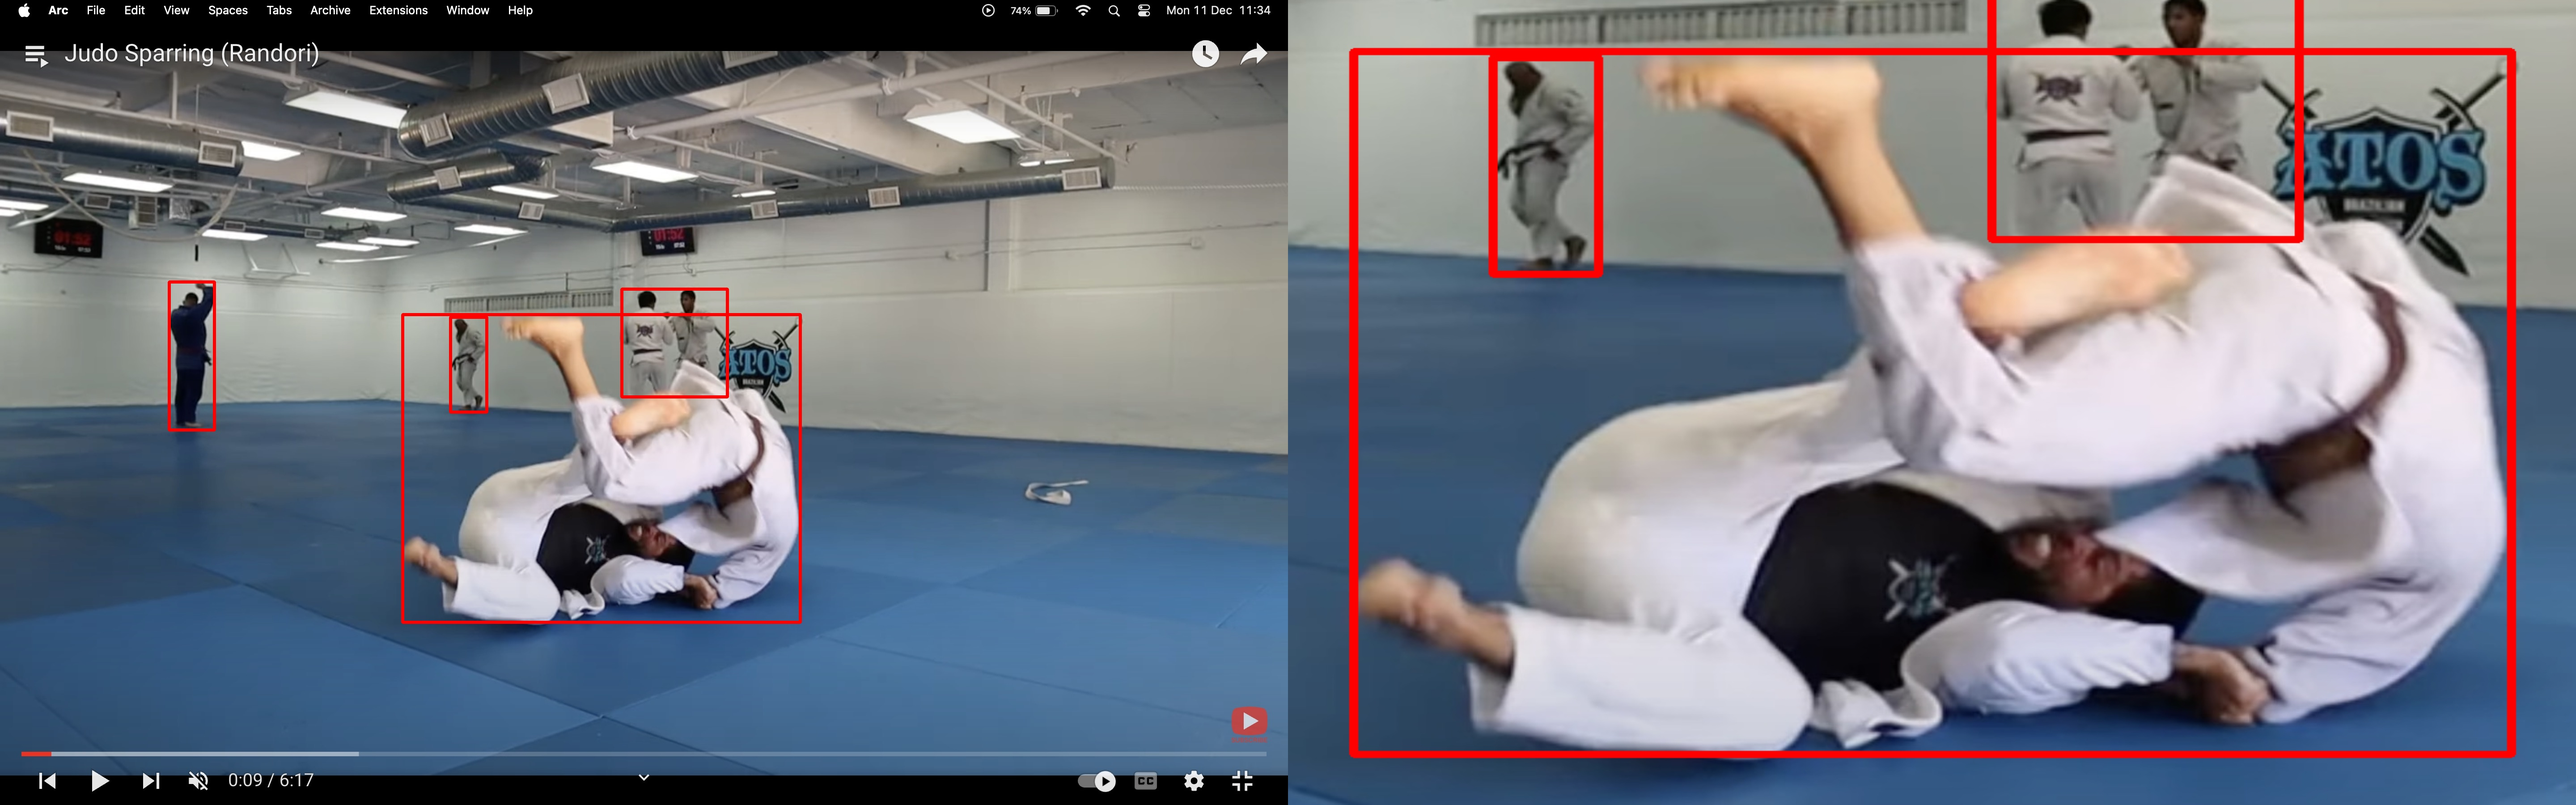
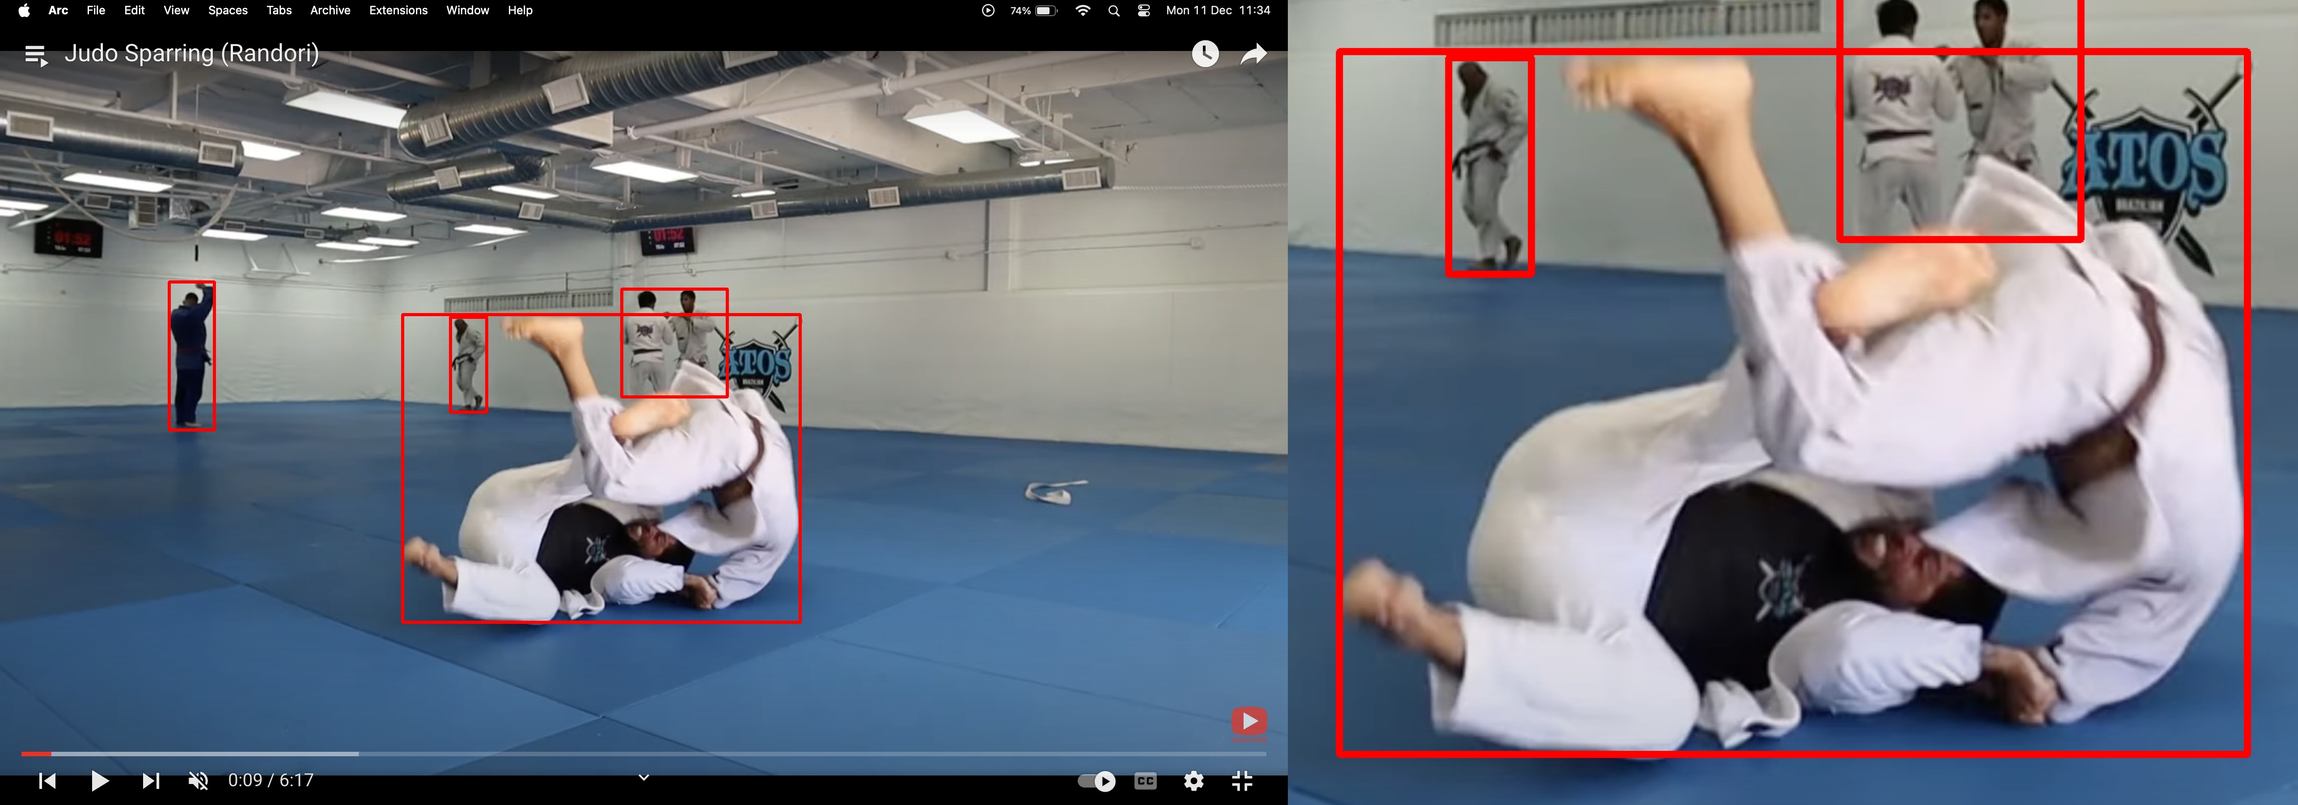
preserving aspect ratio in cropped image

diff --git a/combine_bounding_boxes.py b/combine_bounding_boxes.py
@@ -122,9 +122,12 @@ def crop_and_add(coords, img, ind):
 
     cropped_image = img[int(ymin):int(ymax), int(xmin):int(xmax)]
 
-    cropped_image = cv2.resize(cropped_image, dsize=(img.shape[1], img.shape[0]))
+    cropped_aspect_ratio = cropped_image.shape[1] / cropped_image.shape[0]
 
+    height = img.shape[0]
+    width = height * cropped_aspect_ratio
     
+    cropped_image = cv2.resize(cropped_image, (int(width), int(height)), interpolation = cv2.INTER_AREA)
     
     horizontal_concat = np.concatenate((img, cropped_image), axis=1)
 
